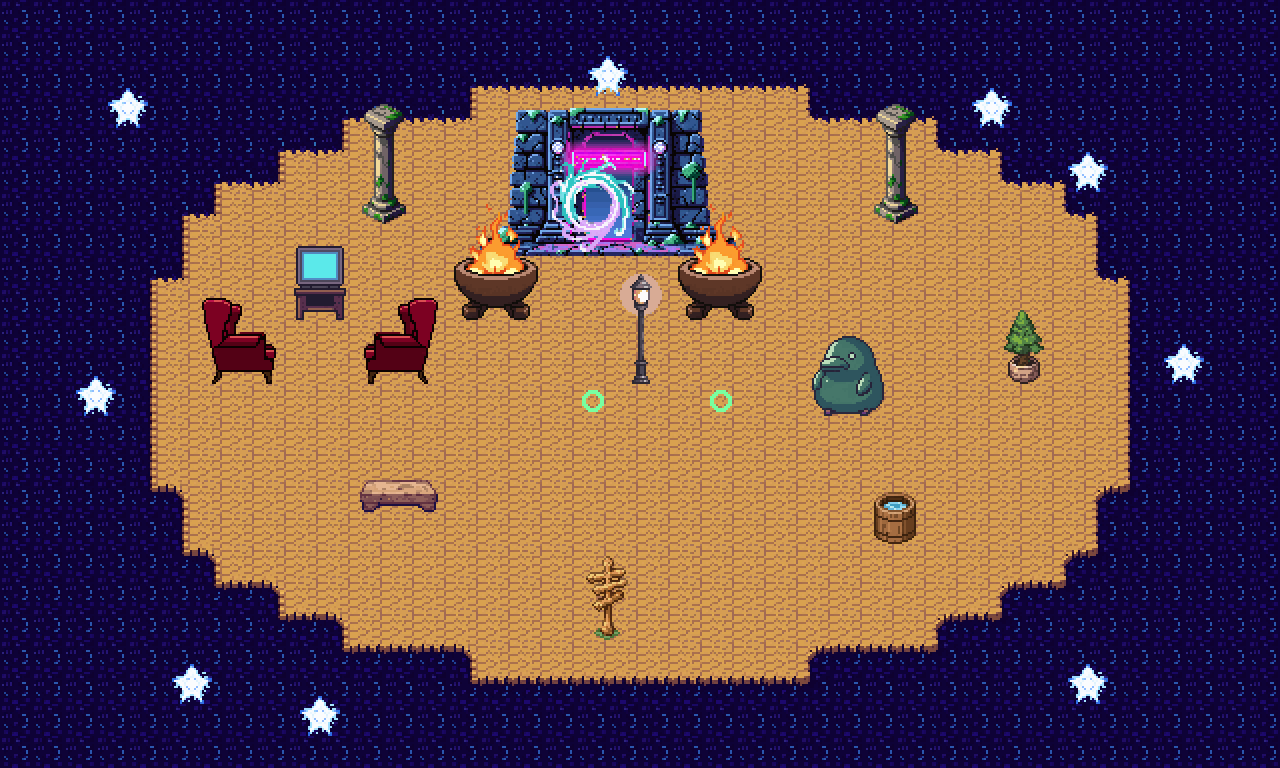
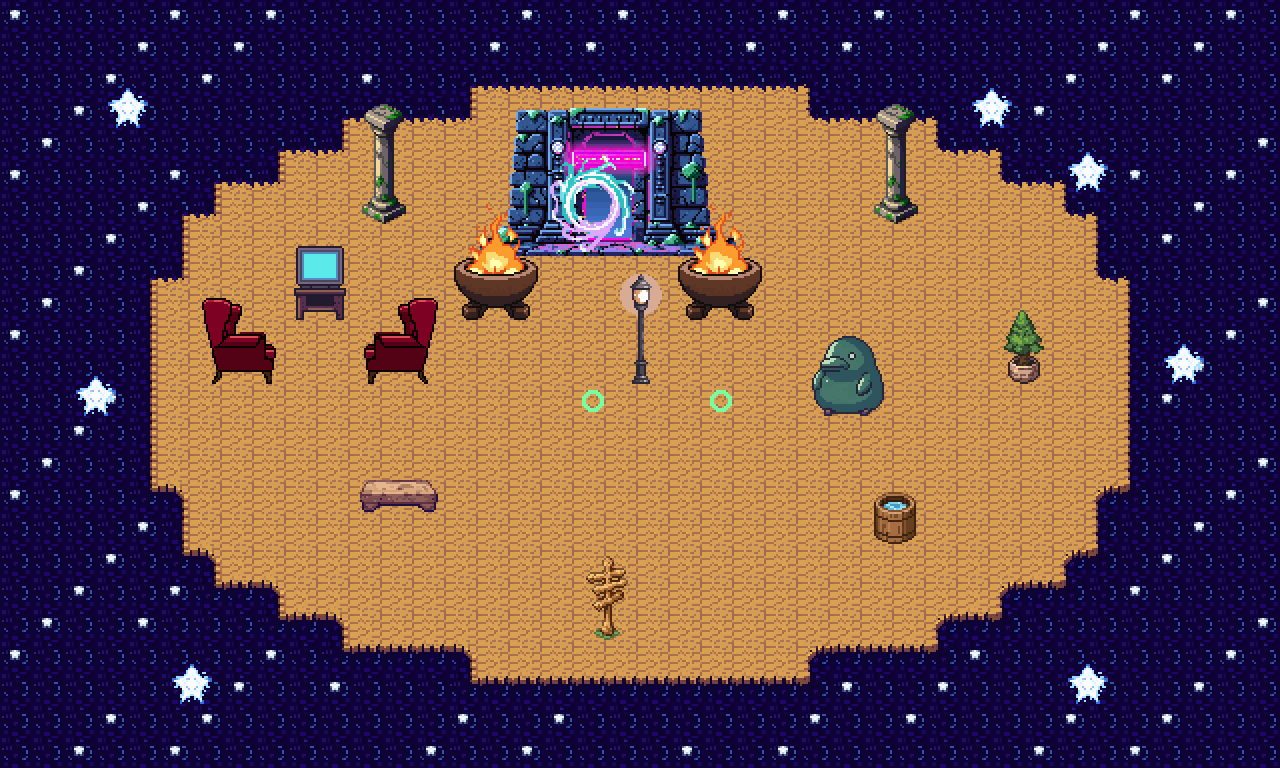
feat(space): deep-sky twinkling starfield, drop star over portal
Make the End of Time void read as an endless sky: a hash-scattered field
of ~80 tiny distant star pinpoints (the twinkle art shrunk to ~5px),
twinkling far away behind a few brighter near stars — desynced per position
so the whole sky shimmers. Remove the accent star that sat over the portal.

Changed region(s): [[0.2188, 0.9062, 0.2812, 0.9688], [0.4375, 0.0625, 0.5, 0.125]]

diff --git a/virtual.space/tools/author_scene.py b/virtual.space/tools/author_scene.py
@@ -73,12 +73,22 @@ ANIM_PROPS = {
     "eot_lamp": ("lamp", 0, 23, 2, 4, 780),
     "eot_portal": ("portal", 0, 27, 3, 3, 700),
     "eot_star": ("star", 0, 30, 2, 2, 1400),
+    # The same twinkle art, shrunk to a faint pinpoint: the deep-sky field.
+    "eot_star_far": ("star", 0, 32, 1, 1, 1600),
 }
 
-# Twinkling stars scattered across the cosmic void (outside the island). The
-# per-position seed desyncs each one's twinkle so the whole sky shimmers.
-STARS = [(3, 2), (30, 2), (33, 4), (2, 11), (36, 10),
-         (5, 20), (33, 20), (18, 1), (9, 21)]
+# Animated tiles whose frames are scaled down to a small point (px) centred in
+# the block, instead of packed at native size — used for the distant stars.
+SCALE_TO_FIT = {"eot_star_far": 5}
+
+# A few bright twinkling stars near the island — the foreground of the sky. The
+# per-position seed desyncs each one's twinkle so nothing pulses in lockstep.
+STARS = [(3, 2), (30, 2), (33, 4), (2, 11), (36, 10), (5, 20), (33, 20)]
+
+# The deep-sky field: tiny distant pinpoints twinkling far away, scattered
+# across the void by a hash so they read as an endless starfield (not a grid).
+# A void cell gets a far star when its hash clears this threshold.
+FAR_STAR_MOD = 5
 
 
 def _compose_sheet():
@@ -144,11 +154,20 @@ def _compose_sheet():
         ox = max(0, (cw - w * T) // 2)
         oy = max(0, ch - h * T)
         dx = (w * T - min(cw, w * T)) // 2
+        fit = SCALE_TO_FIT.get(name)
         for i, im in enumerate(ims):
             crop = im.crop((union[0] + ox, union[1] + oy,
                             min(union[0] + ox + w * T, union[2]), union[3]))
+            if fit:
+                scale = fit / max(crop.width, crop.height)
+                crop = crop.resize((max(1, round(crop.width * scale)),
+                                    max(1, round(crop.height * scale))), Image.LANCZOS)
             block = Image.new("RGBA", (w * T, h * T), (0, 0, 0, 0))
-            block.alpha_composite(crop, (dx, h * T - crop.height))
+            if fit:  # centre the pinpoint in its tile
+                block.alpha_composite(crop, ((w * T - crop.width) // 2,
+                                             (h * T - crop.height) // 2))
+            else:  # bottom-anchor like a standing prop
+                block.alpha_composite(crop, (dx, h * T - crop.height))
             sheet.alpha_composite(block, ((col + i * w) * T, row * T))
         vocab[name] = {"col": col, "row": row, "w": w, "h": h,
                        "frames": len(ims), "period_ms": period}
@@ -186,6 +205,9 @@ def build():
             nw, ne, sw, se = g[y][x], g[y][x + 1], g[y + 1][x], g[y + 1][x + 1]
             row.append("void" if not (nw or ne or sw or se) else f"f{nw}{ne}{sw}{se}")
         floor.append(row)
+    # Deep-sky field: a hash-scattered pinpoint in a fraction of the void cells.
+    far_stars = [(x, y) for y in range(H) for x in range(W)
+                 if floor[y][x] == "void" and _hash(x, y) % FAR_STAR_MOD == 0]
     solid = {(x + dx, y + dy) for (x, y, w, h) in SOLID for dx in range(w) for dy in range(h)}
     collision = []
     for y in range(H):
@@ -198,7 +220,8 @@ def build():
         "width": W, "height": H, "tile_size": T, "ground": "void", "columns": cols,
         "vocab": vocab,
         "floor": floor,
-        "decor": [{"x": x, "y": y, "tile": "eot_star"} for (x, y) in STARS]
+        "decor": [{"x": x, "y": y, "tile": "eot_star_far"} for (x, y) in far_stars]
+        + [{"x": x, "y": y, "tile": "eot_star"} for (x, y) in STARS]
         + [{"x": c, "y": r, "tile": n} for (n, c, r) in DECOR],
         "collision": collision,
         "spawn": SPAWN,
@@ -219,6 +242,8 @@ def build():
     for y in range(H):
         for x in range(W):
             prev.alpha_composite(rect(floor[y][x]), (x * T, y * T))
+    for x, y in far_stars:
+        prev.alpha_composite(rect("eot_star_far"), (x * T, y * T))
     for x, y in STARS:
         prev.alpha_composite(rect("eot_star"), (x * T, y * T))
     for n, c, r in DECOR:
